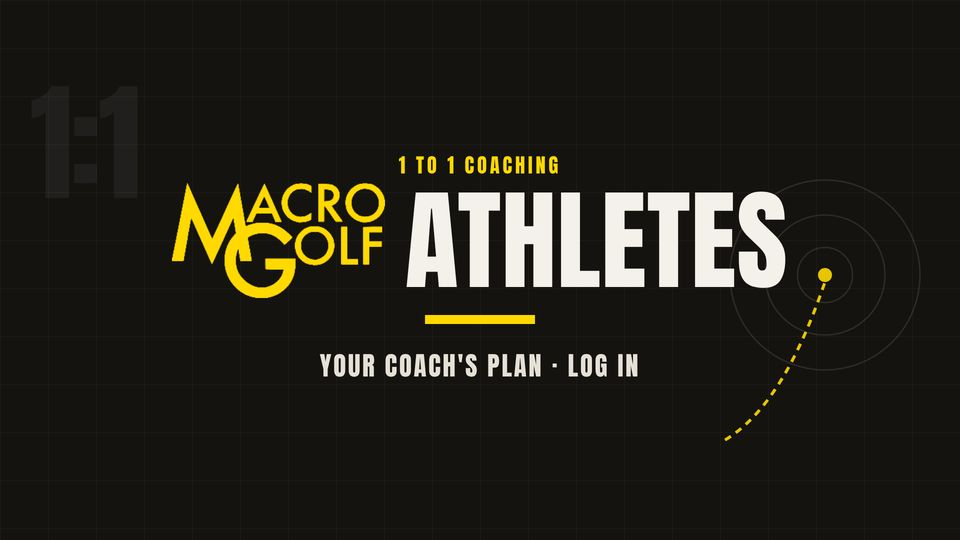
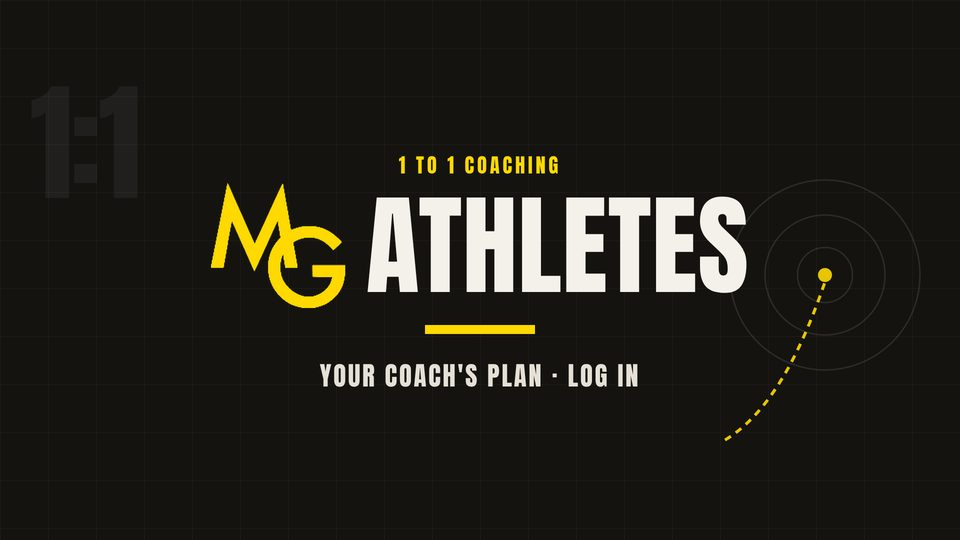
App homepage: quick plan buttons at the top, MG Athletes tile (MG mark) at the bottom
Claude-Session: https://claude.ai/code/session_01DkSaFspKHERjZZRZYzDpGf

Changed region(s): [[0.1562, 0.3259, 0.8438, 0.6222], [0.3125, 0.6519, 0.6875, 0.7407]]

diff --git a/pages/app-home.html b/pages/app-home.html
@@ -5,7 +5,7 @@
 /* App homepage (VidApp first bottom tab, a website tab). Built to look like the original VidApp Home:
    big picture tiles, and tiles that open sub-categories (Testing Centre › the 3 tests; Practice › My Practice Plan and
    Games & Drills › Short Game / Long Game / Putting › the games; Train › My Training Plan). Sub-screens use #hash so the
-   phone's back works. MG Athletes is the first, full-size tile (opens /my-plan). First-time players see a short
+   phone's back works. Two quick buttons at the top open the Practice Plan and the Training Plan; MG Athletes (MG logo tile, opens /my-plan) is the last tile. First-time players see a short
    "Start here" list that ticks itself off. The videos (drills, Training Library) stay in VidApp's Library tab. */
 .ah{min-height:100vh;background:#0B0B0B;color:#F4F1EA;font-family:'Inter',system-ui,-apple-system,'Segoe UI',sans-serif;
   padding:14px max(12px,env(safe-area-inset-right,0px)) calc(110px + env(safe-area-inset-bottom,0px)) max(12px,env(safe-area-inset-left,0px));box-sizing:border-box}
@@ -18,6 +18,10 @@
 .ah-tile img{width:100%;height:auto;display:block}
 .ah-tile i{position:absolute;right:12px;bottom:12px;width:30px;height:30px;border-radius:50%;background:#FFD900;color:#0B0B0B;display:grid;place-items:center;font:700 18px/1 Inter,system-ui,sans-serif;font-style:normal}
 .ah-tile.big{border:2px solid #FFD900}
+/* quick buttons to the two plans, right at the top */
+.ah-quick{display:grid;grid-template-columns:1fr 1fr;gap:8px}
+.ah-quick a{display:flex;flex-direction:column;justify-content:center;min-height:64px;padding:10px 14px;background:#FFD900;color:#0B0B0B!important;font:400 21px/1.02 Anton,Impact,sans-serif;text-transform:uppercase}
+.ah-quick a small{font:700 10.5px Inter,system-ui,sans-serif;letter-spacing:2px;color:#3a3200}
 .ah-top{display:flex;align-items:center;gap:10px;min-height:44px}
 .ah-back{display:inline-flex;align-items:center;gap:6px;min-height:44px;padding:0 14px 0 8px;border:1px solid rgba(244,241,234,.22);background:#141310;color:#F4F1EA;font:600 15px Inter,system-ui,sans-serif;cursor:pointer}
 .ah .ah-h{font-family:'Anton',Impact,sans-serif!important;font-weight:400!important;text-transform:uppercase;font-size:30px!important;line-height:1!important;margin:0!important;color:#F4F1EA!important}
@@ -53,12 +57,13 @@ function start(){var s=state();if(js("mg-home-start-hide",false)||(s.test&&s.num
 function head(title,back){return '<div class="ah-top"><a class="ah-back" href="#'+(back||"")+'">‹ Back</a><h1 class="ah-h">'+title+'</h1></div>'}
 var V={
  "":function(){return '<div class="ah-logo"><img src="{{BASE}}assets/icons/macro-golf-coaching.png" alt="Macro Golf"></div>'+start()+
-   tile("tile-mg-athletes","MG Athletes: 1 to 1 coaching, your coach's plan",W+"my-plan",null,"big")+
+   '<div class="ah-quick"><a href="'+W+'my-practice"><small>Your</small>Practice plan</a><a href="'+W+'my-training"><small>Your</small>Training plan</a></div>'+
    tile("tile-numbers","My Numbers: your game in strokes gained",W+"my-numbers")+
    tile("tile-testing","Testing Centre: find where you lose shots",null,"testing")+
    tile("tile-practice","Practice: your practice plan and games",null,"practice")+
    tile("tile-train","Train: move better, swing faster",null,"train")+
-   tile("tile-warmup","Warm up",W+"warm-up")},
+   tile("tile-warmup","Warm up",W+"warm-up")+
+   tile("tile-mg-athletes","MG Athletes: 1 to 1 coaching, your coach's plan",W+"my-plan")},
  testing:function(){return head("Testing Centre")+'<p class="ah-p">Three tests show where you gain and lose shots. Retest every 6 weeks.</p>'+
    tile("test-long-game","Long Game Test",W+"p-524617")+tile("test-short-game","Short Game Test",W+"p-791364")+tile("test-putting","Putting Test",W+"p-350829")},
  practice:function(){return head("Practice")+tile("inner-my-practice-plan","My Practice Plan",W+"my-practice")+tile("inner-games-drills","Games and drills",null,"games")},

diff --git a/WORKLOG.md b/WORKLOG.md
@@ -3,6 +3,7 @@
 Shared log between Joe's, Jack's and Sam's Claude. Newest at the top. One line per start or finish:
 `YYYY-MM-DD HH:MM · who · what · status`
 
+2026-11-13 20:05 · Jack's Claude · App homepage (Jack): MG Athletes tile now shows the MG mark only (not 'Macro Golf') and moved to the bottom; two quick yellow buttons at the top: Your Practice Plan (/my-practice) and Your Training Plan (/my-training). Pinning app-home · in progress
 2026-11-13 20:00 · Jack's Claude · Pinned b86c30b on all 12 games/tests, My Numbers, Paul Goddard, Practice Plan and app-home (checked live, all 16). Strokes gained video no longer auto-plays; new homepage (MG Athletes logo tile, sub-categories) live at www.macro.golf/app-home, which is the VidApp Home tab in PREVIEW only · done
 2026-11-13 19:58 · Jack's Claude · (1) App homepage reworked to look like the original Home (Jack): big tiles; MG Athletes tile first, full size, with the Macro Golf MG logo; Testing Centre › 3 tests; Practice › My Practice Plan + Games & Drills › Short Game / Long Game / Putting › games; Train › My Training Plan. Images assets/web/home/ (960x540 JPG). (2) Strokes gained video no longer auto-plays anywhere (src/sg-intro.js, meeting decision); the My Numbers replay button stays. Re-pinning the 15 golf pages that load it + app-home · in progress
 2026-11-13 19:39 · Jack's Claude · VidApp Build My App › bottom tabs now: Home (NEW website tab 4183875, header 'Macro Golf', URL https://www.macro.golf/app-home, not locked, house icon) · Practice (4183672, unchanged) · My Training (4183671, unchanged) · Playlists (312357, unchanged) · Library (content tab 312348 = the old Home: title 'Home'→'Library', icon house→library shelf, moved from 1st to 5th; every row and group inside unchanged: My Numbers, Testing, Practice › Games & Drills › Short Game (50ft Bank, Par 18, Wedge Darts) / Long Game (Lava, Driver Corridor, 3 Strikes) / Putting (Money Stealers, Insanity, Hole Out) / Golf Drills, Train › Training Library, Warm Up). MG Athletes (4183648 → /my-plan) moved to 'Not Active' (not deleted; drag back to restore); its log-in is on the new homepage. Old set-up: docs/vidapp-snapshot-2026-11-13.md
